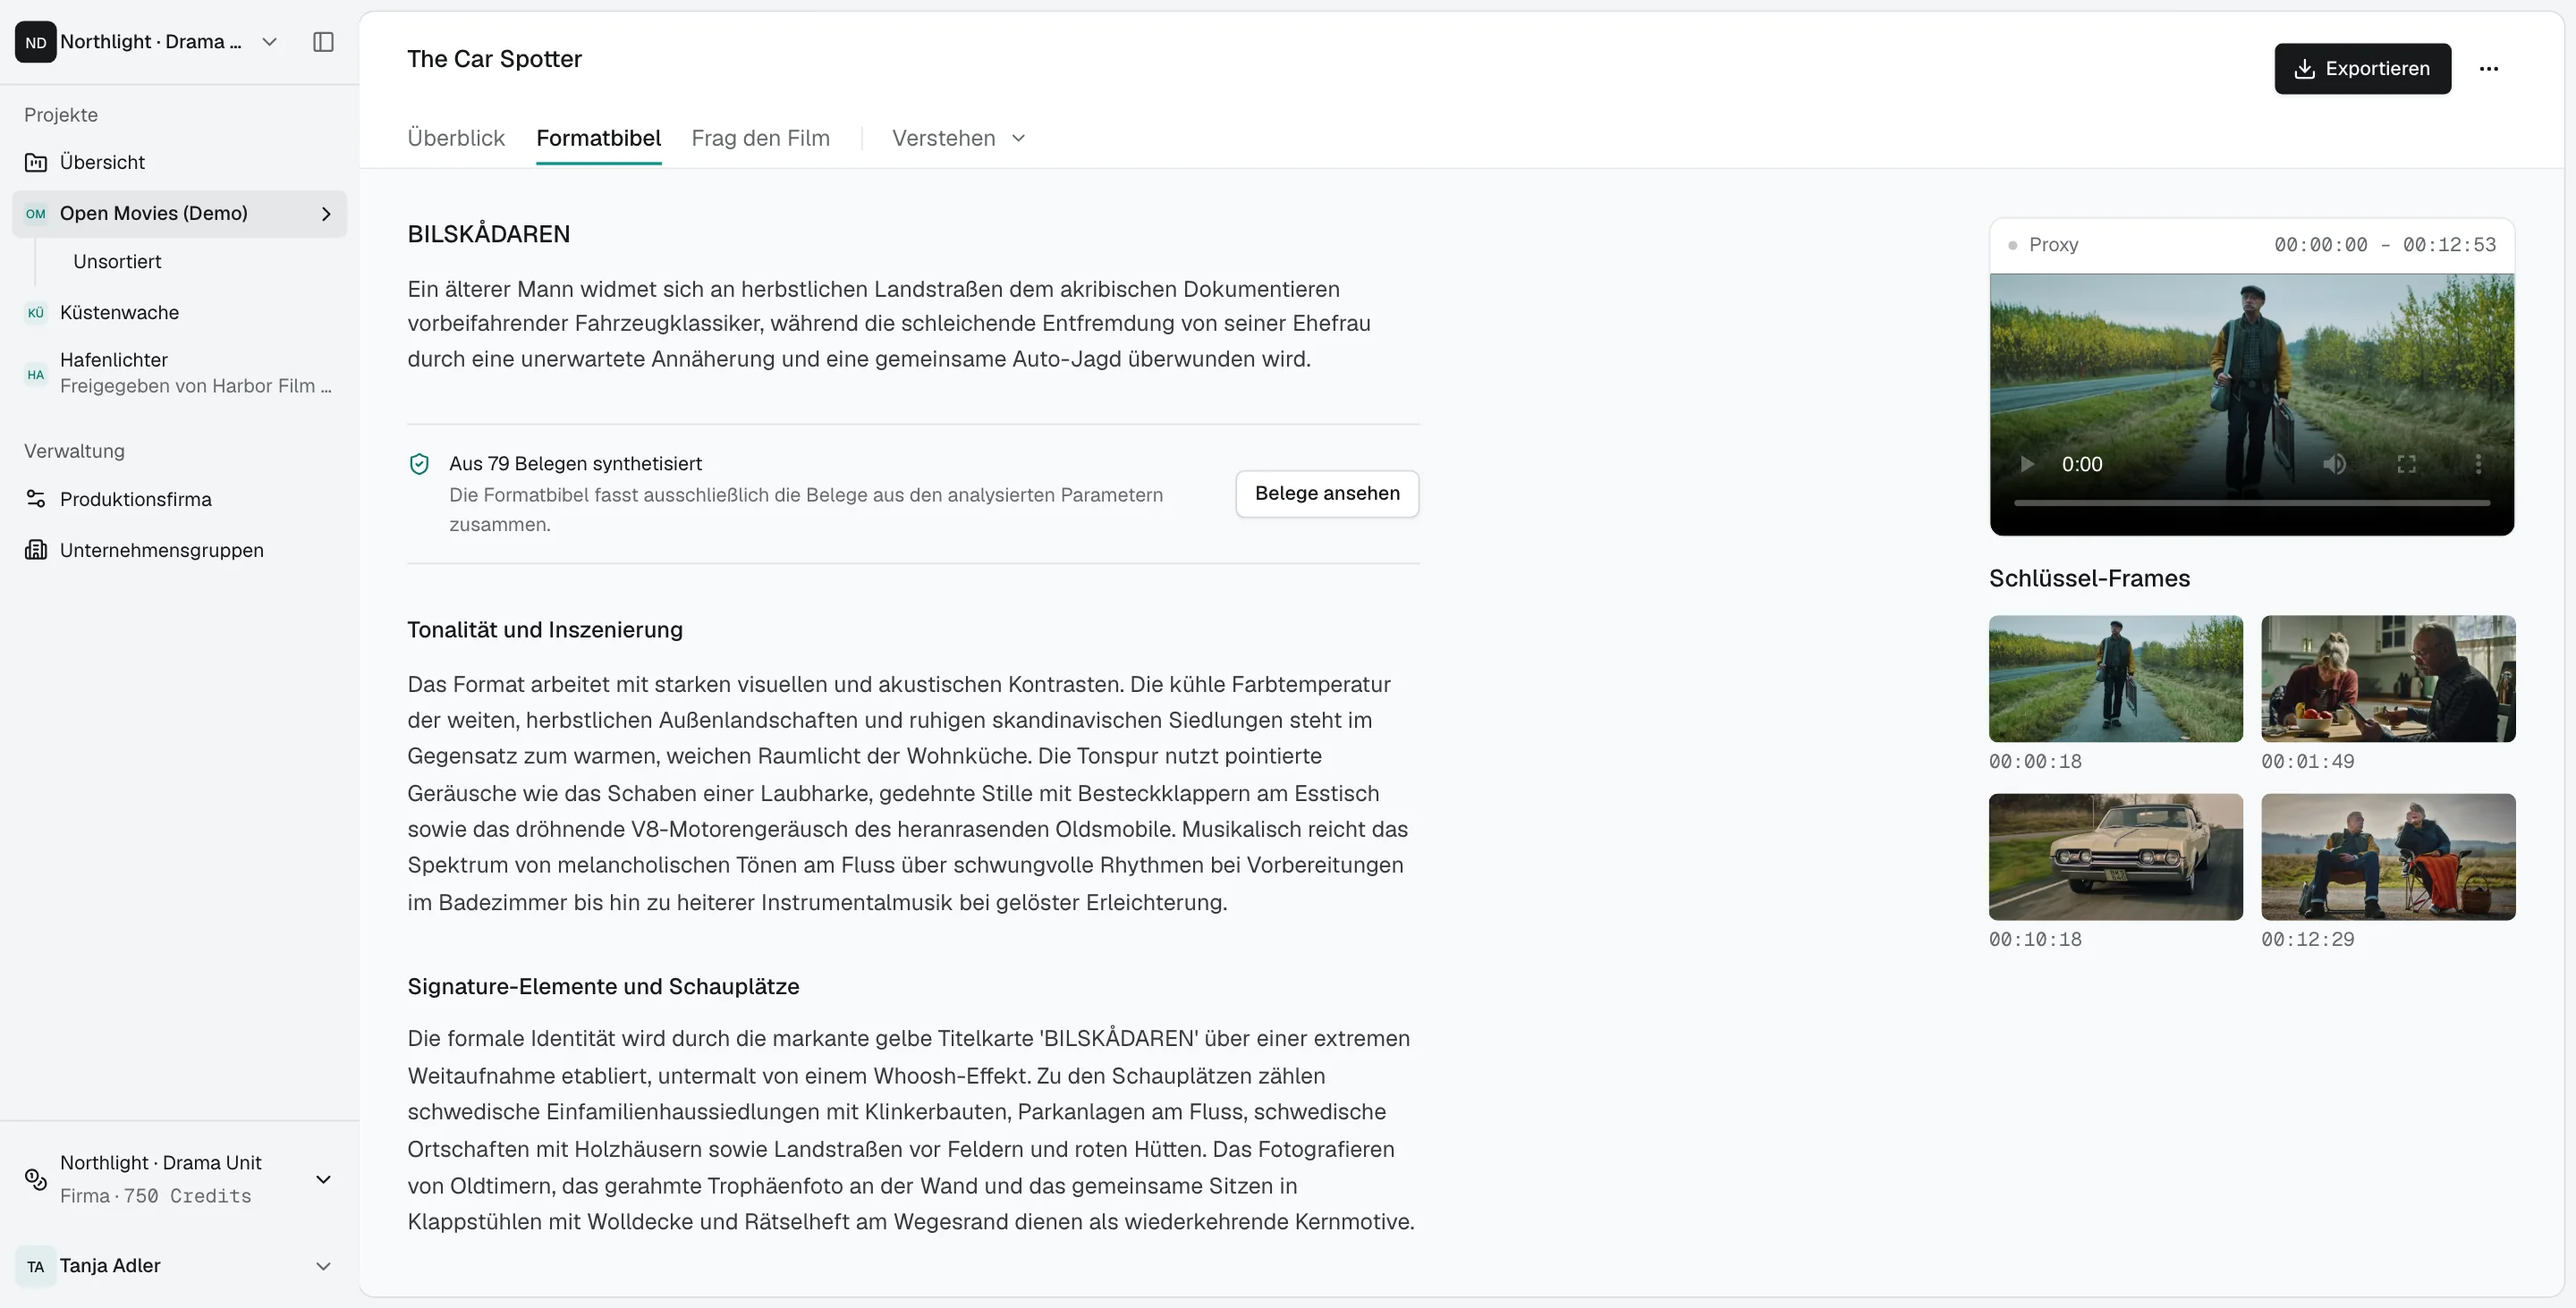
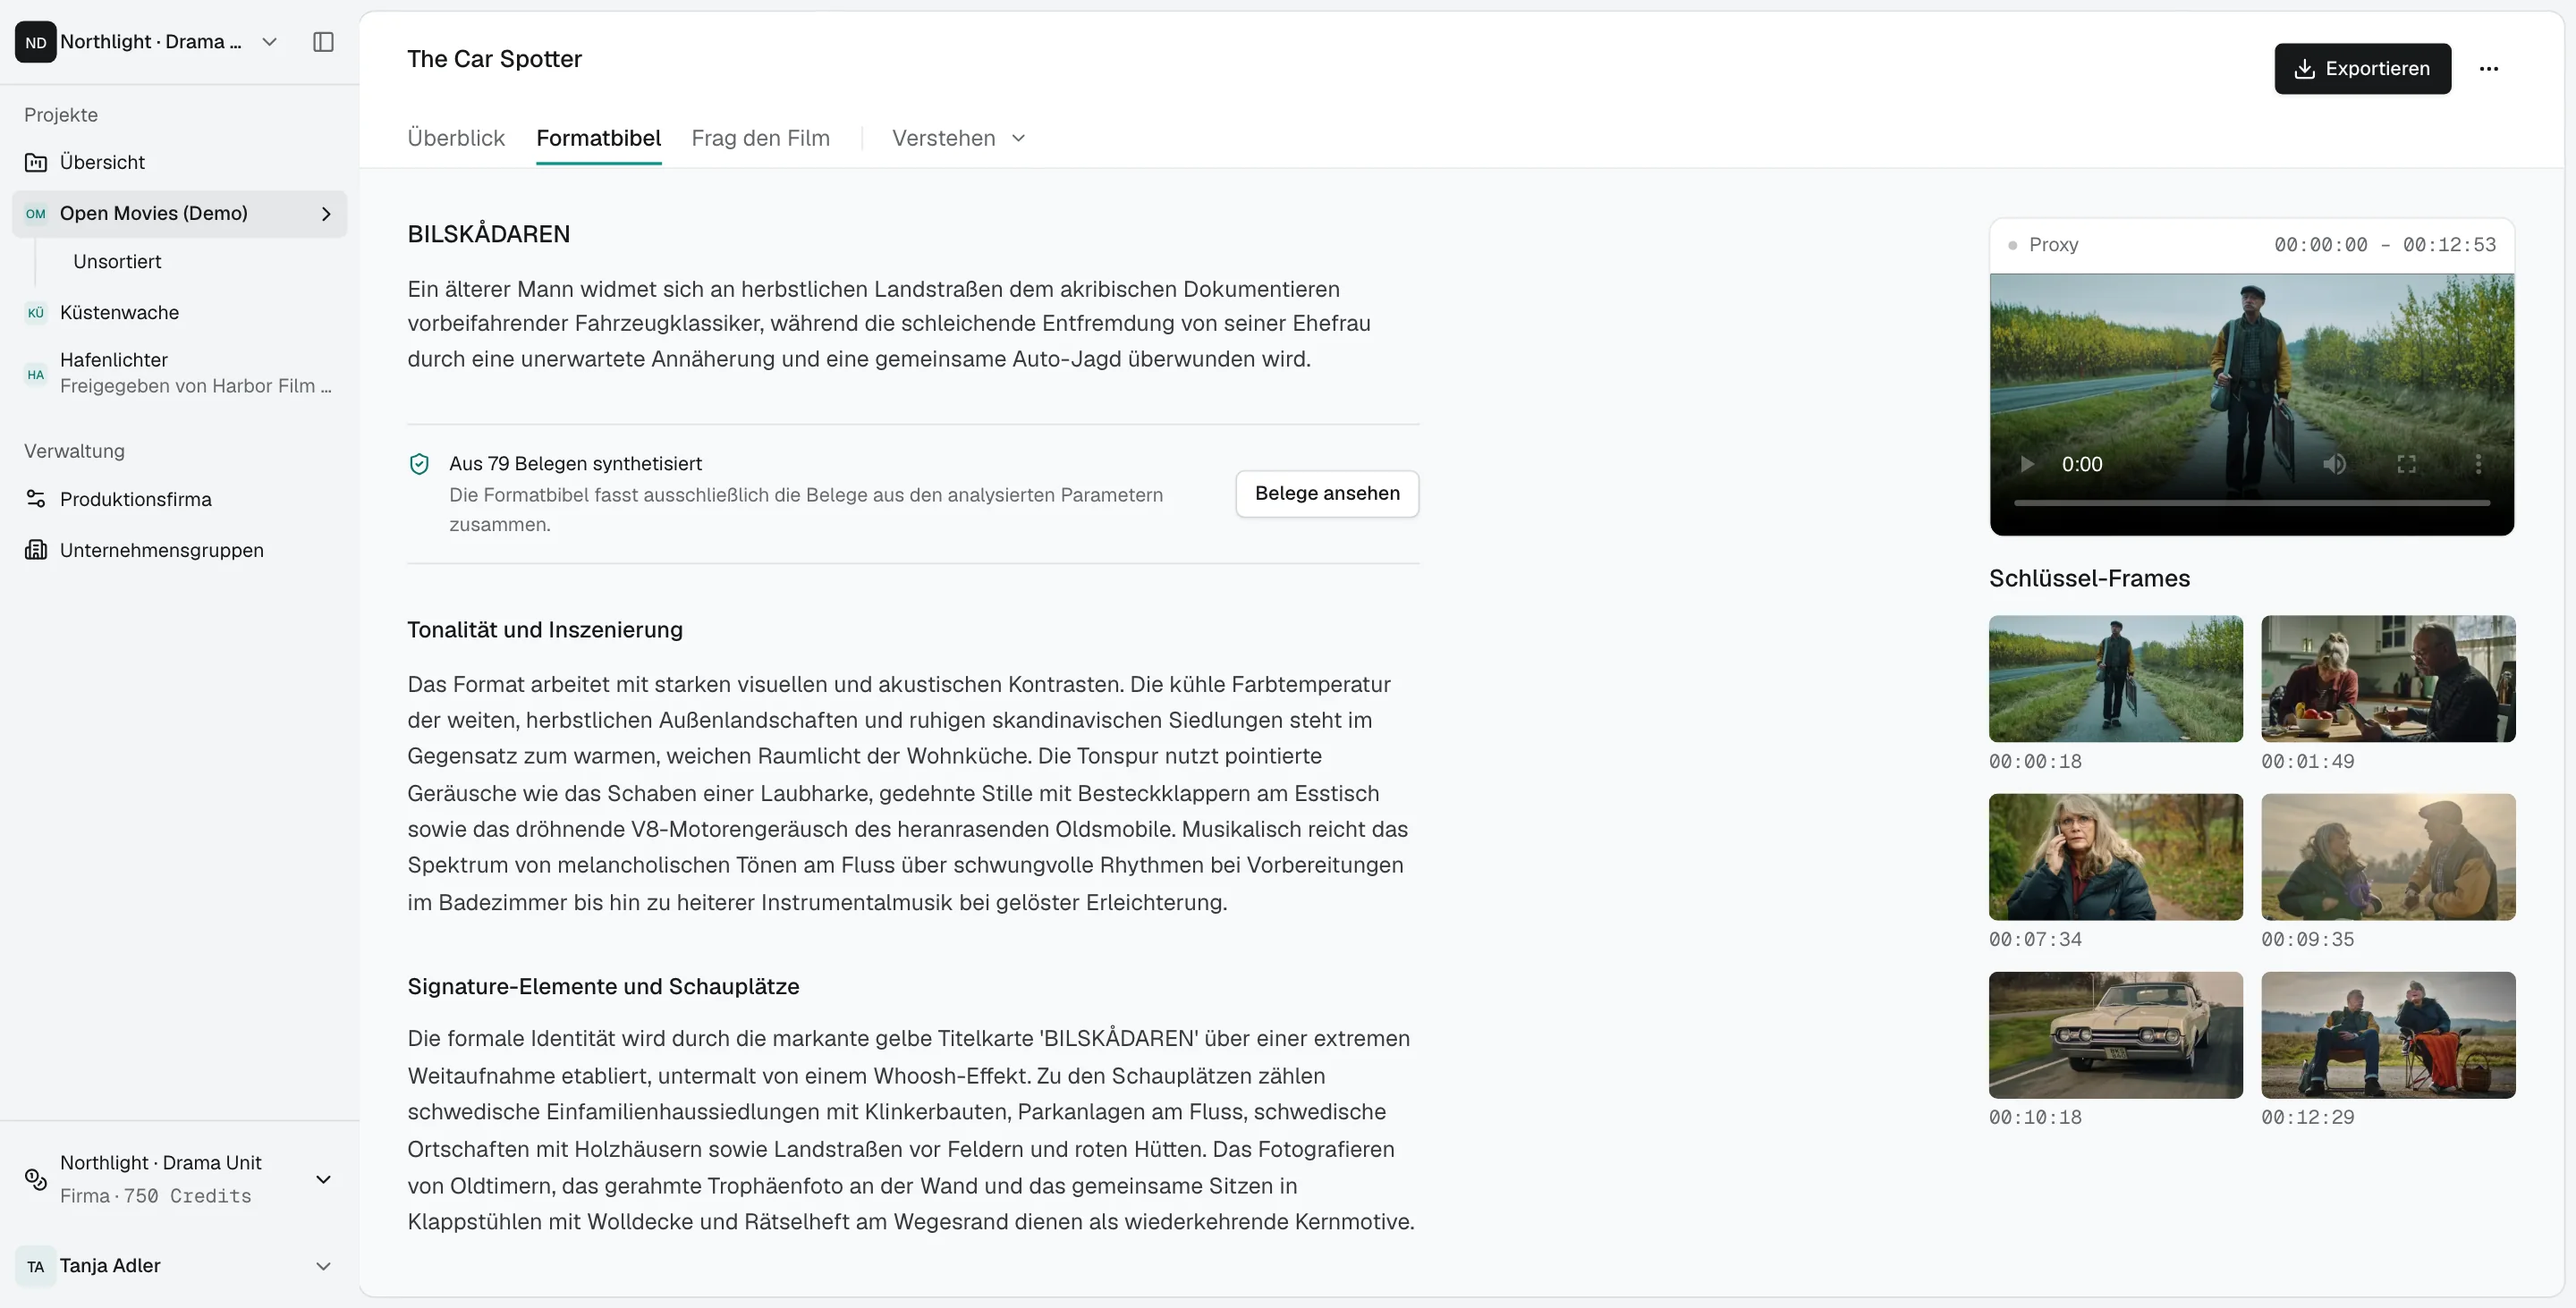
Recapture the Formatbibel from screencurve 4052c24
The final preview now takes the export's 79 Belege ("Aus 79 Belegen
synthetisiert"), so formatbibel.webp and formatbibel-de.webp come from
the same app state as the other three gallery pictures: six key frames,
the excerpt's sections only (premise, Tonalität und Inszenierung,
Signature-Elemente und Schauplätze), no "Ulf". Same crop as before,
1720×874 at 2880 wide. Tag ?v=20261116-car-spotter-79, since the preview
deployment already fetched the old picture under the previous tag.

Changed region(s): [[0.75, 0.5844, 1.0, 0.8612]]

diff --git a/apps/web/src/data/services.ts b/apps/web/src/data/services.ts
@@ -122,7 +122,7 @@ export const services: Service[] = [
 		proof: {
 			caseStudySlug: "screencurve",
 			image:
-				"/images/case-studies/screencurve/hero.webp?v=20261116-car-spotter-final",
+				"/images/case-studies/screencurve/hero.webp?v=20261116-car-spotter-79",
 		},
 	},
 	{
@@ -150,7 +150,7 @@ export const services: Service[] = [
 		proof: {
 			caseStudySlug: "screencurve",
 			image:
-				"/images/case-studies/screencurve/ask-the-film.webp?v=20261116-car-spotter-final",
+				"/images/case-studies/screencurve/ask-the-film.webp?v=20261116-car-spotter-79",
 		},
 	},
 ];

diff --git a/apps/web/next.config.ts b/apps/web/next.config.ts
@@ -32,15 +32,15 @@ const nextConfig: NextConfig = {
 			},
 			{
 				pathname: "/images/case-studies/screencurve/**",
-				search: "?v=20261116-car-spotter-final",
+				search: "?v=20261116-car-spotter-79",
 			},
 			{
 				pathname: "/images/home/work/screencurve.webp",
-				search: "?v=20261116-car-spotter-final",
+				search: "?v=20261116-car-spotter-79",
 			},
 			{
 				pathname: "/images/home/work/screencurve-de.webp",
-				search: "?v=20261116-car-spotter-final",
+				search: "?v=20261116-car-spotter-79",
 			},
 			{
 				pathname: "/images/home/work/mpb.webp",

diff --git a/apps/web/src/components/marketing/home/hero-wall.tsx b/apps/web/src/components/marketing/home/hero-wall.tsx
@@ -8,7 +8,7 @@ import "./hero-wall.css";
 const shots = "/images/case-studies";
 const wall = "/images/home/wall";
 const obsidian = "?v=20261111-eagle-obsidian";
-const carSpotter = "?v=20261116-car-spotter-final";
+const carSpotter = "?v=20261116-car-spotter-79";
 
 /** A desktop screen. A wide one is 2:1, the others 16:10, as the screens
  * are. With `page`, the picture is a long page (its height over its width)

diff --git a/apps/web/src/data/systems.ts b/apps/web/src/data/systems.ts
@@ -27,7 +27,7 @@ export const customSystems: CustomSystem[] = [
 		proof: {
 			caseStudySlug: "screencurve",
 			image:
-				"/images/case-studies/screencurve/hero.webp?v=20261116-car-spotter-final",
+				"/images/case-studies/screencurve/hero.webp?v=20261116-car-spotter-79",
 		},
 	},
 	{
